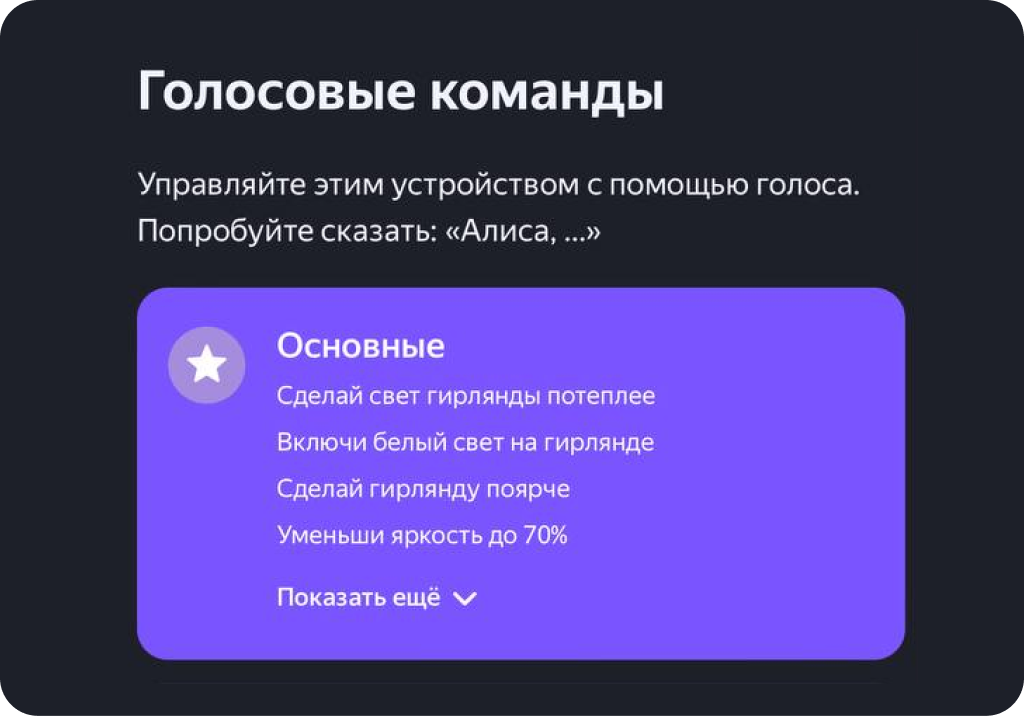
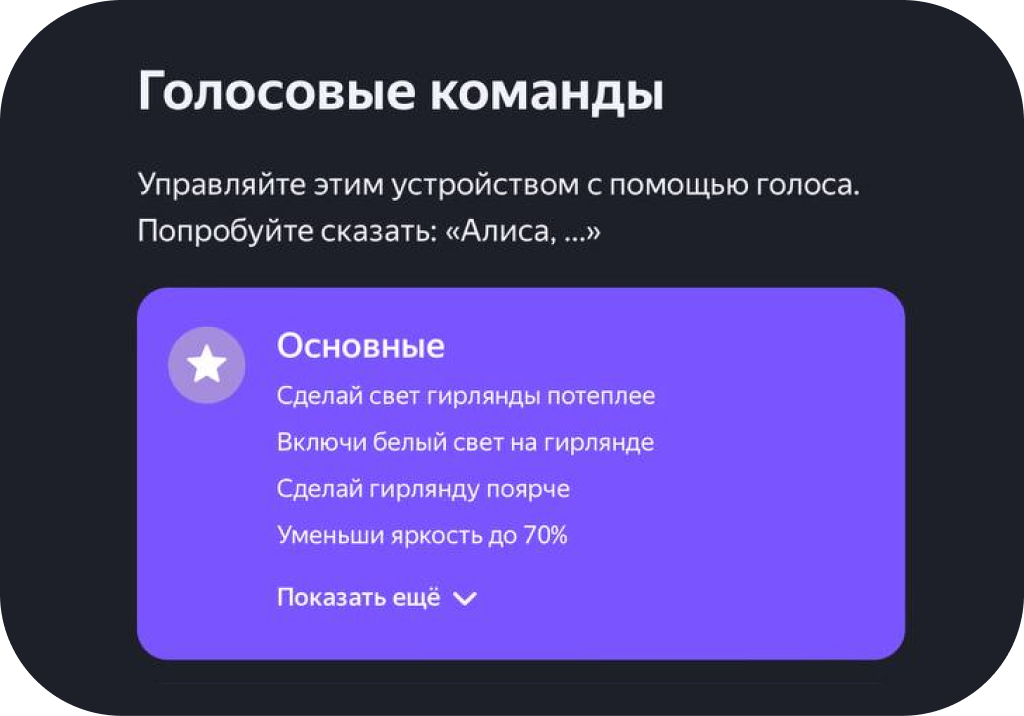
замена скриншотов с радиусом 122 при ширине 1024px

diff --git a/scss/style.scss b/scss/style.scss
@@ -523,7 +523,7 @@ h1 {
     top: calc(-170/1117*100dvh);
     left: calc(-166/1117*100dvh);
     width: calc(191/1117*100dvh);
-    height: calc(365/1117*100dvh);
+    height: calc(300/1117*100dvh);
     background: url('../img/1.png') top left no-repeat;
     background-size: contain;  
 }
@@ -535,7 +535,7 @@ h1 {
     top: calc(-140/1117*100dvh);
     left: calc(-124/1117*100dvh);
     width: calc(156/1117*100dvh);
-    height: calc(311/1117*100dvh);
+    height: calc(300/1117*100dvh);
 }
 
 .smart-screen-instruction-pic-3::before {
@@ -545,7 +545,7 @@ h1 {
     top: calc(-130/1117*100dvh);
     left: calc(-120/1117*100dvh);
     width: calc(184/1117*100dvh);
-    height: calc(312/1117*100dvh);
+    height: calc(300/1117*100dvh);
 }
 
 .smart-screen-instruction-pic-4::before {
@@ -555,7 +555,7 @@ h1 {
     top: calc(-125/1117*100dvh);
     left: calc(-150/1117*100dvh);
     width: calc(173/1117*100dvh);
-    height: calc(295/1117*100dvh);
+    height: calc(300/1117*100dvh);
 }
 
 .smart-screen-instruction-pic-5::before {
@@ -565,7 +565,7 @@ h1 {
     top: calc(-130/1117*100dvh);
     left: calc(-120/1117*100dvh);
     width: calc(167/1117*100dvh);
-    height: calc(286/1117*100dvh);
+    height: calc(300/1117*100dvh);
 }
 
 .smart-screen-instruction-pic-6::before {
@@ -575,7 +575,7 @@ h1 {
     top: calc(-120/1117*100dvh);
     left: calc(-110/1117*100dvh);
     width: calc(159/1117*100dvh);
-    height: calc(260/1117*100dvh);
+    height: calc(300/1117*100dvh);
 }
 
 .smart-screen-instruction-text {

diff --git a/scss/dist/style.css b/scss/dist/style.css
@@ -527,7 +527,7 @@ h1 {
   top: calc(-170/1117*100dvh);
   left: calc(-166/1117*100dvh);
   width: calc(191/1117*100dvh);
-  height: calc(365/1117*100dvh);
+  height: calc(300/1117*100dvh);
   background: url("../img/1.png") top left no-repeat;
   background-size: contain;
 }
@@ -539,7 +539,7 @@ h1 {
   top: calc(-140/1117*100dvh);
   left: calc(-124/1117*100dvh);
   width: calc(156/1117*100dvh);
-  height: calc(311/1117*100dvh);
+  height: calc(300/1117*100dvh);
 }
 
 .smart-screen-instruction-pic-3::before {
@@ -549,7 +549,7 @@ h1 {
   top: calc(-130/1117*100dvh);
   left: calc(-120/1117*100dvh);
   width: calc(184/1117*100dvh);
-  height: calc(312/1117*100dvh);
+  height: calc(300/1117*100dvh);
 }
 
 .smart-screen-instruction-pic-4::before {
@@ -559,7 +559,7 @@ h1 {
   top: calc(-125/1117*100dvh);
   left: calc(-150/1117*100dvh);
   width: calc(173/1117*100dvh);
-  height: calc(295/1117*100dvh);
+  height: calc(300/1117*100dvh);
 }
 
 .smart-screen-instruction-pic-5::before {
@@ -569,7 +569,7 @@ h1 {
   top: calc(-130/1117*100dvh);
   left: calc(-120/1117*100dvh);
   width: calc(167/1117*100dvh);
-  height: calc(286/1117*100dvh);
+  height: calc(300/1117*100dvh);
 }
 
 .smart-screen-instruction-pic-6::before {
@@ -579,7 +579,7 @@ h1 {
   top: calc(-120/1117*100dvh);
   left: calc(-110/1117*100dvh);
   width: calc(159/1117*100dvh);
-  height: calc(260/1117*100dvh);
+  height: calc(300/1117*100dvh);
 }
 
 .smart-screen-instruction-text {

diff --git a/css/style.css b/css/style.css
@@ -575,7 +575,7 @@ h1 {
   top: -15.2193375112dvh;
   left: -14.8612354521dvh;
   width: 17.0993733214dvh;
-  height: 32.6768128917dvh;
+  height: 26.8576544315dvh;
   background: url("../img/1.png") top left no-repeat;
   background-size: contain;
 }
@@ -587,7 +587,7 @@ h1 {
   top: -12.533572068dvh;
   left: -11.1011638317dvh;
   width: 13.9659803044dvh;
-  height: 27.842435094dvh;
+  height: 26.8576544315dvh;
 }
 
 .smart-screen-instruction-pic-3::before {
@@ -597,7 +597,7 @@ h1 {
   top: -11.6383169203dvh;
   left: -10.7430617726dvh;
   width: 16.472694718dvh;
-  height: 27.9319606088dvh;
+  height: 26.8576544315dvh;
 }
 
 .smart-screen-instruction-pic-4::before {
@@ -607,7 +607,7 @@ h1 {
   top: -11.1906893465dvh;
   left: -13.4288272158dvh;
   width: 15.4879140555dvh;
-  height: 26.4100268577dvh;
+  height: 26.8576544315dvh;
 }
 
 .smart-screen-instruction-pic-5::before {
@@ -617,7 +617,7 @@ h1 {
   top: -11.6383169203dvh;
   left: -10.7430617726dvh;
   width: 14.9507609669dvh;
-  height: 25.6042972247dvh;
+  height: 26.8576544315dvh;
 }
 
 .smart-screen-instruction-pic-6::before {
@@ -627,7 +627,7 @@ h1 {
   top: -10.7430617726dvh;
   left: -9.8478066249dvh;
   width: 14.2345568487dvh;
-  height: 23.2766338406dvh;
+  height: 26.8576544315dvh;
 }
 
 .smart-screen-instruction-text {
